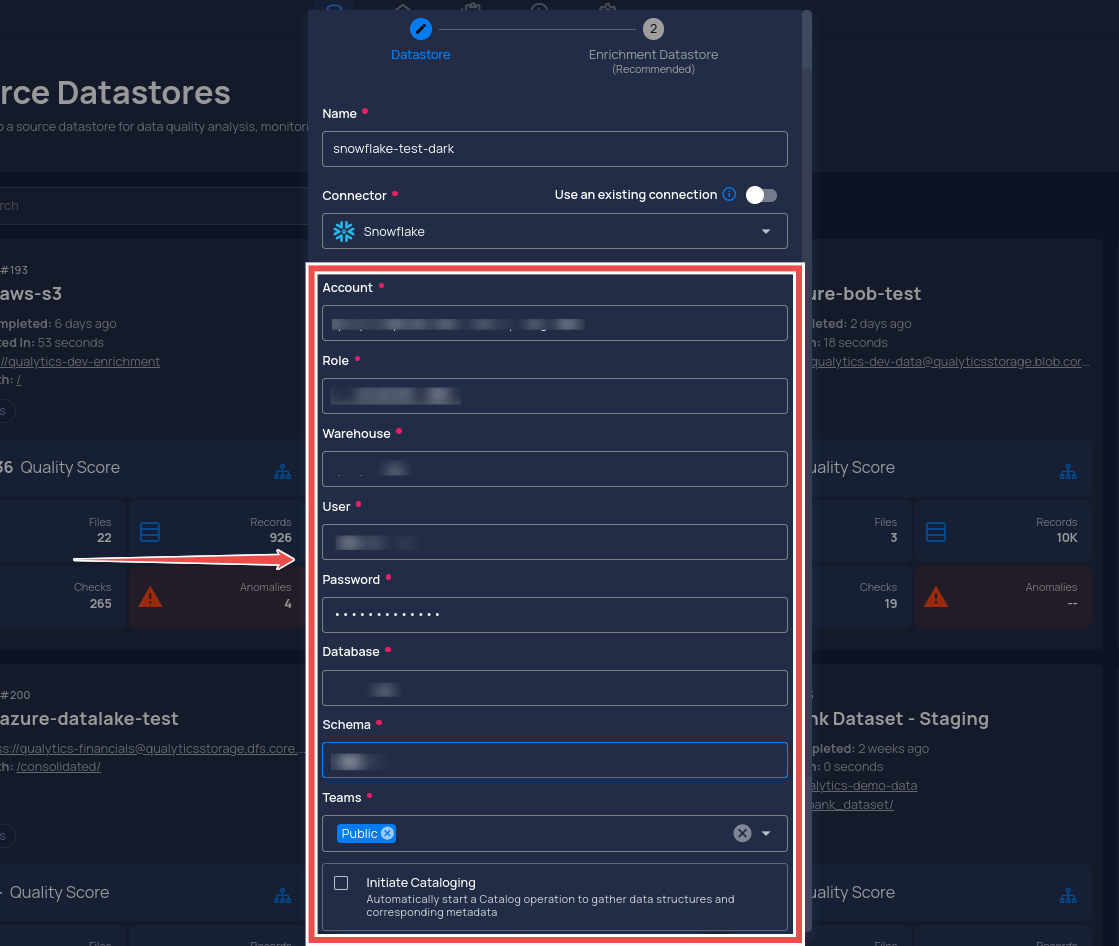
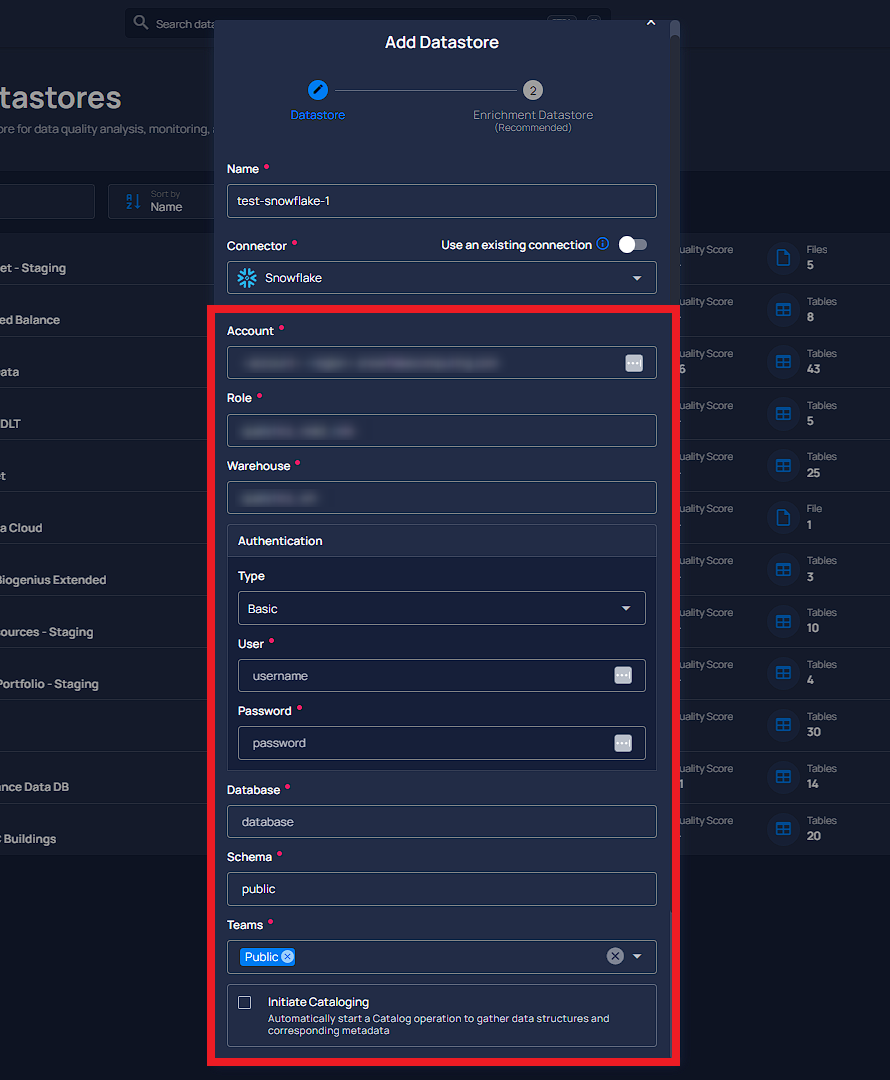
Snowflake doc fixed #2

diff --git a/docs/add-datastores/snowflake.md b/docs/add-datastores/snowflake.md
@@ -94,7 +94,7 @@ A source datastore is a storage location used to connect to and access data from
 
 If the toggle for **Use an existing connection** is turned off, then this will prompt you to add and configure the source datastore from scratch without using existing connection details.
 
-**Step 1**: Select the **Snowflake** connector from the dropdown list and add the connection details such as account, role, warehouse, user, and password.
+**Step 1**: Select the **Snowflake** connector from the dropdown list and add the connection details.
 
 ![add-datastore-credentials](../assets/datastores/snowflake/add-datastore-credentials-light.png#only-light)
 ![add-datastore-credentials](../assets/datastores/snowflake/add-datastore-credentials-dark.png#only-dark)
@@ -102,7 +102,7 @@ If the toggle for **Use an existing connection** is turned off, then this will p
 **Step 2**: The configuration form will expand, requesting credential details before establishing the connection.
 
 ![add-datastore-credentials-explain](../assets/datastores/snowflake/add-datastore-credentials-explain-new-light.png#only-light)
-![add-datastore-credentials-explain](../assets/datastores/snowflake/add-datastore-credentials-explain-dark.png#only-dark)
+![add-datastore-credentials-explain](../assets/datastores/snowflake/add-datastore-credentials-explain-new-dark.png#only-dark)
 
 |  REF.  |  FIELDS | ACTIONS |
 | ------ | ------- | ------ |
@@ -127,7 +127,7 @@ If the toggle for **Use an existing connection** is turned on, then this will pr
 **Step 1**: Select a **connection** to reuse existing credentials.
 
 ![use-existing-datastore](../assets/datastores/snowflake/use-existing-datastore-new-light.png#only-light)
-![use-existing-datastore](../assets/datastores/snowflake/use-existing-datastore-dark.png#only-dark)
+![use-existing-datastore](../assets/datastores/snowflake/use-existing-datastore-new-dark.png#only-dark)
 
 !!!note
     If you are using existing credentials, you can only edit the details such as Database, Schema, Teams and Initiate Cataloging.
@@ -172,7 +172,7 @@ If the toggles for **Use an existing enrichment datastore** and **Use an existin
 **Step 1**: Add connection details for your selected **enrichment datastore** connector.
 
 ![enrichment-datastore-explain](../assets/datastores/snowflake/enrichment-datastore-connector-new-light.png#only-light)
-![enrichment-datastore-explain](../assets/datastores/snowflake/enrichment-datastore-explain-dark.png#only-dark)
+![enrichment-datastore-explain](../assets/datastores/snowflake/enrichment-datastore-explain-new-dark.png#only-dark)
 
 |  REF.  |  FIELDS | ACTIONS |
 | ------ | ------- | ------ |
